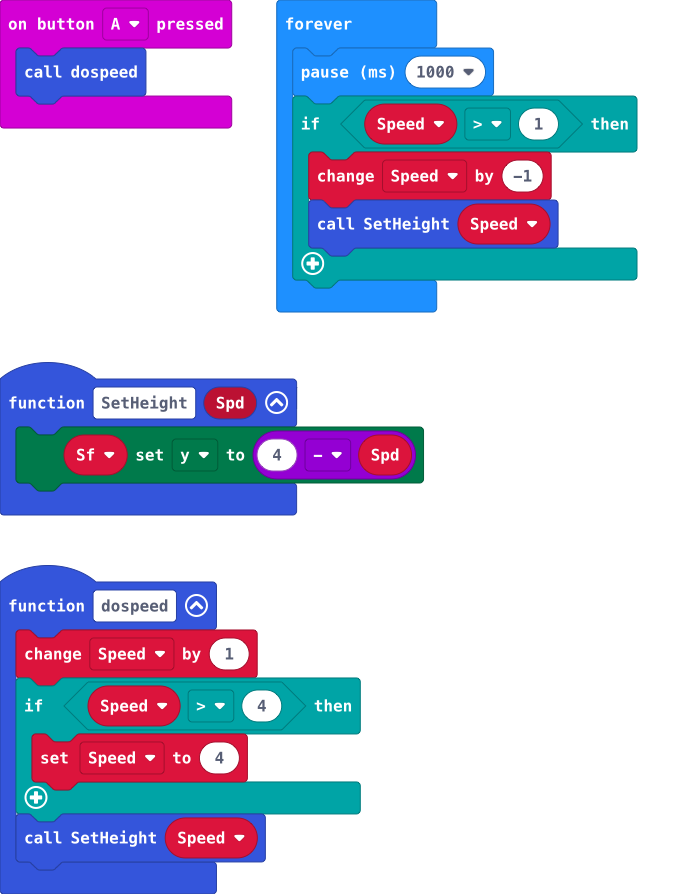
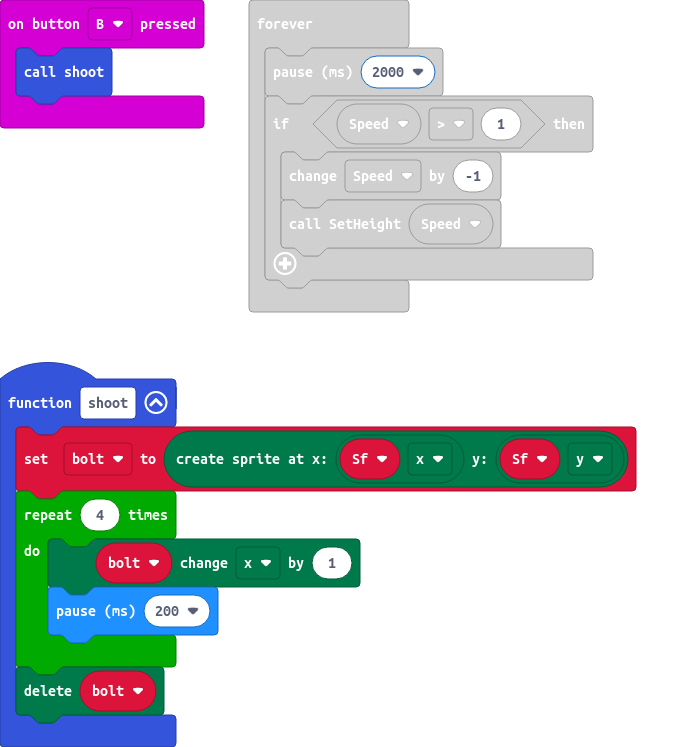
Update main.blocks, main.ts

diff --git a/main.ts b/main.ts
@@ -8,12 +8,24 @@ function dospeed () {
     }
     SetHeight(Speed)
 }
+function shoot () {
+    bolt = game.createSprite(Sf.get(LedSpriteProperty.X), Sf.get(LedSpriteProperty.Y))
+    for (let index = 0; index < 4; index++) {
+        bolt.change(LedSpriteProperty.X, 1)
+        basic.pause(200)
+    }
+    bolt.delete()
+}
+input.onButtonPressed(Button.B, function () {
+    shoot()
+})
 function SetHeight (Spd: number) {
     Sf.set(LedSpriteProperty.Y, 4 - Spd)
 }
 let B3: game.LedSprite = null
 let B2: game.LedSprite = null
 let B1: game.LedSprite = null
+let bolt: game.LedSprite = null
 let Speed = 0
 let Sf: game.LedSprite = null
 Sf = game.createSprite(1, 3)
@@ -33,7 +45,7 @@ basic.forever(function () {
     B2.delete()
 })
 basic.forever(function () {
-    basic.pause(1000)
+    basic.pause(2000)
     if (Speed > 1) {
         Speed += -1
         SetHeight(Speed)
